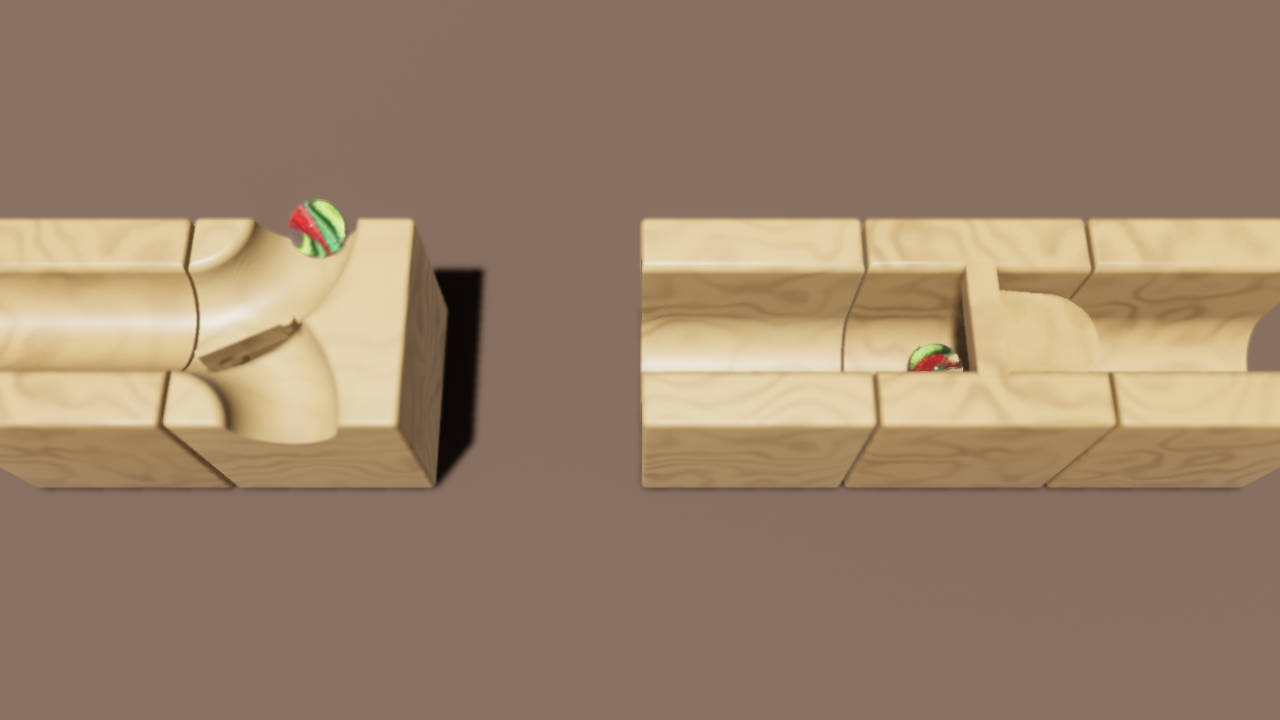
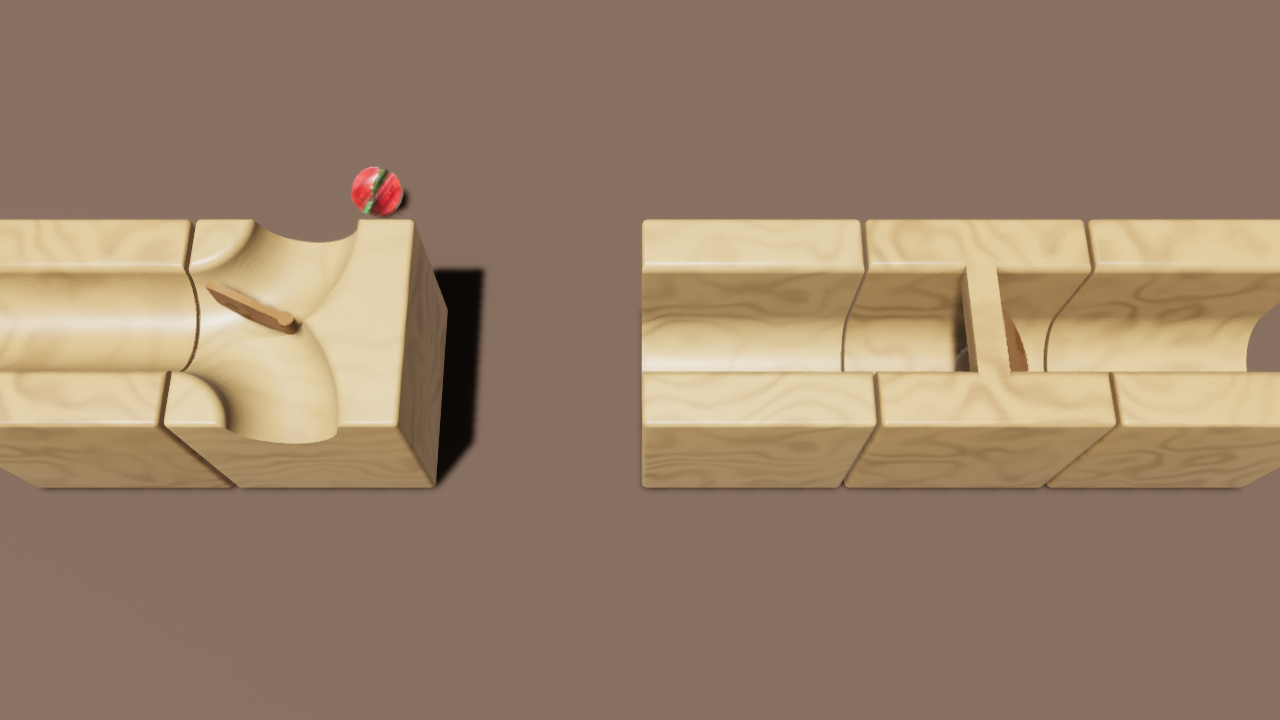
Stain mechanism moving parts a medium wood darker than the body
Flaps, toggle rockers, trapdoors and gates now draw with their own kit
material per (piece, LOD, wood variant): the same world-space wood and
baked maps as the body, under a linear PART_STAIN tint. Rendering only.
Reviewed mechanism shots replace docs/shots/p2-t6-*.png.

diff --git a/crates/parble-render/src/kit/mod.rs b/crates/parble-render/src/kit/mod.rs
@@ -18,8 +18,9 @@
 //!   the render device exists (on the web it arrives after `Startup`). Baked maps are PNG only.
 //! - The draw counts in [`KitDiag`] are read from the render world's binned phases ([`count_draws`]).
 //! - Mechanism parts (P2-T6, [`parts`]): each animated part is its own mesh per (type, LOD), drawn
-//!   with the piece's material and posed from the sim each frame, so a mechanism type adds one bin
-//!   per part per (LOD, variant) next to its body's.
+//!   with the piece's wood stained by [`PART_STAIN`] (its own material per (type, LOD, variant)) and
+//!   posed from the sim each frame, so a mechanism type adds one bin per part per (LOD, variant) next
+//!   to its body's.
 
 pub mod edit;
 pub mod family;
@@ -117,6 +118,12 @@ pub const ASSET_SOURCE: &str = "parble";
 /// from each. The sets' own normal maps are not loaded: the bevel normal is the piece's baked map.
 pub const WOOD_SETS: [&str; 3] = ["wood_warm_a", "wood_warm_b", "wood_warm_c"];
 pub const WOOD_MAPS: [&str; 2] = ["base_color", "orm"];
+/// Linear tint on the wood of every mechanism part (flaps, rockers, trapdoors, gates): a medium
+/// stain darker than the body (PRD §6 P2 Look). Blue and green drop more than red so it reads as
+/// stained wood, not grey.
+pub const PART_STAIN: Color = Color::linear_rgb(0.55, 0.40, 0.28);
+/// The pre-load placeholder of the parts: the body's flat placeholder under [`PART_STAIN`].
+const PART_PLACEHOLDER: Color = Color::linear_rgb(0.3424 * 0.55, 0.1329 * 0.40, 0.0397 * 0.28);
 /// One wood repeat in metres (`assets/materials/provenance.json` `contract.tileM`).
 pub const WOOD_TILE_M: f32 = 0.25;
 /// Per-piece, per-LOD baked maps (P1-T2), PNG only, sampled at UV0.
@@ -649,6 +656,8 @@ fn spawn_parts(
 struct KitTextures {
     /// `materials[piece][lod][variant]`.
     materials: Vec<[[Handle<KitWoodMaterial>; 3]; LODS]>,
+    /// [`Self::materials`] stained with [`PART_STAIN`], for the animated parts.
+    part_materials: Vec<[[Handle<KitWoodMaterial>; 3]; LODS]>,
     images: Vec<(String, &'static str, Handle<Image>)>,
     /// Each [`WOOD_SETS`] variant's [`WOOD_MAPS`], once the family is known.
     wood: Vec<[Handle<Image>; 2]>,
@@ -749,30 +758,34 @@ fn spawn_kit(
     shared.0.lock().expect("kit shared").meshes = ids;
 
     // Until the maps load: the GLB placeholder wood colour, flat.
-    tex.materials = (0..PIECES.len())
-        .map(|_| {
-            std::array::from_fn(|_| {
+    let mut set = |color: Color| -> Vec<[[Handle<KitWoodMaterial>; 3]; LODS]> {
+        (0..PIECES.len())
+            .map(|_| {
                 std::array::from_fn(|_| {
-                    materials.add(KitWoodMaterial {
-                        base: StandardMaterial {
-                            base_color: Color::srgb(0.62, 0.40, 0.22),
-                            perceptual_roughness: 0.55,
-                            ..default()
-                        },
-                        extension: KitWoodExt {
-                            params: KitWoodParams {
-                                inv_tile_m: 1.0 / WOOD_TILE_M,
-                                enabled: 0.0,
-                                mip_bias: if low { 1.0 } else { 0.0 },
-                                pad: 0.0,
+                    std::array::from_fn(|_| {
+                        materials.add(KitWoodMaterial {
+                            base: StandardMaterial {
+                                base_color: color,
+                                perceptual_roughness: 0.55,
+                                ..default()
                             },
-                            ..default()
-                        },
+                            extension: KitWoodExt {
+                                params: KitWoodParams {
+                                    inv_tile_m: 1.0 / WOOD_TILE_M,
+                                    enabled: 0.0,
+                                    mip_bias: if low { 1.0 } else { 0.0 },
+                                    pad: 0.0,
+                                },
+                                ..default()
+                            },
+                        })
                     })
                 })
             })
-        })
-        .collect();
+            .collect()
+    };
+    tex.materials = set(Color::srgb(0.62, 0.40, 0.22));
+    tex.part_materials = set(PART_PLACEHOLDER);
     tex.wanted.extend(layout.iter().map(|p| p.piece));
     let mut variant_pieces = vec![0; WOOD_SETS.len()];
 
@@ -812,7 +825,7 @@ fn spawn_kit(
                             range.clone(),
                         ));
                     }
-                    let mats = &tex.materials[p.piece];
+                    let mats = &tex.part_materials[p.piece];
                     spawn_parts(
                         c,
                         &kept,
@@ -923,15 +936,20 @@ fn load_textures(
             let [ao, normal] =
                 BAKED_MAPS.map(|map| load(baked_path(piece, lod, map), "baked", false, false));
             for (v, [base, orm]) in tex.wood.iter().enumerate() {
-                let Some(mut m) = materials.get_mut(&tex.materials[p][lod][v]) else {
-                    continue;
-                };
-                m.base.base_color = Color::WHITE;
-                m.base.occlusion_texture = Some(ao.clone());
-                m.base.normal_map_texture = Some(normal.clone());
-                m.extension.base = Some(base.clone());
-                m.extension.orm = Some(orm.clone());
-                m.extension.params.enabled = 1.0;
+                for (set, tint) in [
+                    (&tex.materials, Color::WHITE),
+                    (&tex.part_materials, PART_STAIN),
+                ] {
+                    let Some(mut m) = materials.get_mut(&set[p][lod][v]) else {
+                        continue;
+                    };
+                    m.base.base_color = tint;
+                    m.base.occlusion_texture = Some(ao.clone());
+                    m.base.normal_map_texture = Some(normal.clone());
+                    m.extension.base = Some(base.clone());
+                    m.extension.orm = Some(orm.clone());
+                    m.extension.params.enabled = 1.0;
+                }
             }
         }
         tex.baked.insert(p);

diff --git a/crates/parble-render/src/kit/parts.rs b/crates/parble-render/src/kit/parts.rs
@@ -1,5 +1,6 @@
 //! Animated mechanism parts (P2-T6): each `anim_<name>` part is its own instanced mesh per (piece
-//! type, LOD), drawn with the piece's material and posed every frame from the sim's part angles.
+//! type, LOD), drawn with the piece's wood under the [`super::PART_STAIN`] tint and posed every frame
+//! from the sim's part angles.
 //!
 //! - The app writes the part angles of the last two physics ticks to [`PartFrame`] wherever it
 //!   writes [`crate::MarbleFrame`]; parts interpolate with the marbles' `alpha` ([`interpolated_mdeg`]).

diff --git a/crates/parble-render/src/kit/edit.rs b/crates/parble-render/src/kit/edit.rs
@@ -262,7 +262,7 @@ fn apply_edits(
                         ));
                     }
                     // The parts' parent slices with the piece; its children inherit.
-                    let mats = &tex.materials[p.piece];
+                    let mats = &tex.part_materials[p.piece];
                     let shown = visible(slice, p.cell.y);
                     spawn_parts(
                         c,
